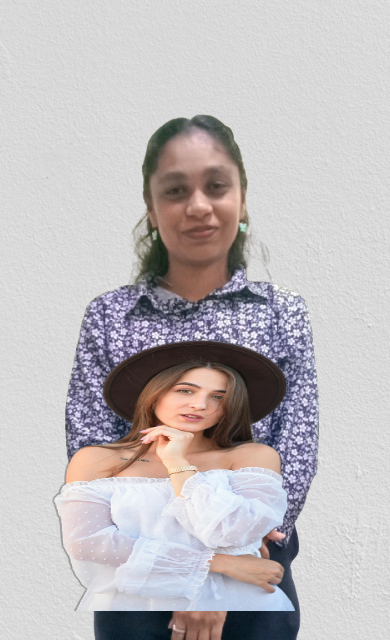
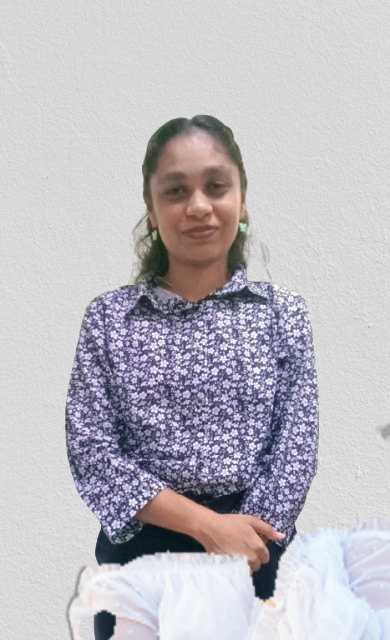
Changing Lookly adding API keys

Changed region(s): [[0.1231, 0.5312, 1.0, 1.0], [0.9538, 0.6562, 1.0, 0.6875]]

diff --git a/utils/ai_overlay.py b/utils/ai_overlay.py
@@ -12,67 +12,63 @@ from mediapipe.tasks.python import vision as mp_vision
 MODEL_PATH = os.path.join(os.path.dirname(__file__), 'pose_landmarker.task')
 
 # Landmark indices
-NOSE = 0
-LEFT_EYE = 2; RIGHT_EYE = 5
-LEFT_SHOULDER = 11; RIGHT_SHOULDER = 12
-LEFT_ELBOW = 13; RIGHT_ELBOW = 14
-LEFT_WRIST = 15; RIGHT_WRIST = 16
-LEFT_HIP = 23; RIGHT_HIP = 24
+LEFT_SHOULDER = 11;  RIGHT_SHOULDER = 12
+LEFT_HIP = 23;       RIGHT_HIP = 24
+
+# Global landmarker
+_landmarker = None
 
 def _get_landmarker():
-    base_options = mp_python.BaseOptions(model_asset_path=MODEL_PATH)
-    options = mp_vision.PoseLandmarkerOptions(
-        base_options=base_options,
-        running_mode=mp_vision.RunningMode.IMAGE
-    )
-    return mp_vision.PoseLandmarker.create_from_options(options)
+    global _landmarker
+    if _landmarker is None:
+        base_options = mp_python.BaseOptions(model_asset_path=MODEL_PATH)
+        options = mp_vision.PoseLandmarkerOptions(
+            base_options=base_options,
+            running_mode=mp_vision.RunningMode.IMAGE,
+            output_segmentation_masks=False
+        )
+        _landmarker = mp_vision.PoseLandmarker.create_from_options(options)
+    return _landmarker
 
-def _detect_landmarks(img_bgr):
-    rgb = cv2.cvtColor(img_bgr, cv2.COLOR_BGR2RGB)
-    mp_img = mp.Image(image_format=mp.ImageFormat.SRGB, data=rgb)
-    lm_er = _get_landmarker()
-    result = lm_er.detect(mp_img)
-    lm_er.close()
-    if result.pose_landmarks and len(result.pose_landmarks) > 0:
-        return result.pose_landmarks[0]
+def _detect_landmarks(img):
+    if len(img.shape) == 3 and img.shape[2] == 4:
+        img = img[:, :, :3]
+    rgb = cv2.cvtColor(img, cv2.COLOR_BGR2RGB)
+    rgb = np.ascontiguousarray(rgb)
+    landmarker = _get_landmarker()
+    try:
+        mp_img = mp.Image(image_format=mp.ImageFormat.SRGB, data=rgb)
+        result = landmarker.detect(mp_img)
+        if result.pose_landmarks:
+            return result.pose_landmarks[0]
+    except:
+        pass
     return None
 
 def _px(lm_pt, w, h):
     return (int(lm_pt.x * w), int(lm_pt.y * h))
 
-def _skin_mask(bgr):
-    hsv = cv2.cvtColor(bgr, cv2.COLOR_BGR2HSV)
+def _get_skin_mask(bgr):
     ycrcb = cv2.cvtColor(bgr, cv2.COLOR_BGR2YCrCb)
-    # Define skin color ranges
+    hsv = cv2.cvtColor(bgr, cv2.COLOR_BGR2HSV)
     mask1 = cv2.inRange(hsv, np.array([0, 20, 70]), np.array([25, 255, 255]))
     mask2 = cv2.inRange(ycrcb, np.array([0, 133, 77]), np.array([255, 173, 127]))
     return cv2.bitwise_and(mask1, mask2)
 
-def _extract_fabric(bgra, lm):
-    if lm is None: return bgra
+def _extract_garment_mask(bgra, landmarks):
     h, w = bgra.shape[:2]
     alpha = bgra[:, :, 3].copy()
+    if landmarks:
+        ls = _px(landmarks[LEFT_SHOULDER], w, h)
+        rs = _px(landmarks[RIGHT_SHOULDER], w, h)
+        shoulder_y = min(ls[1], rs[1])
+        alpha[:max(0, shoulder_y - 10), :] = 0
+        neck_center = ((ls[0] + rs[0]) // 2, shoulder_y)
+        neck_radius = int(abs(ls[0] - rs[0]) * 0.2)
+        cv2.circle(alpha, neck_center, neck_radius, 0, -1)
     
-    # 1. Anatomical Erasure (Head)
-    nose = _px(lm[NOSE], w, h)
-    ls = _px(lm[LEFT_SHOULDER], w, h)
-    rs = _px(lm[RIGHT_SHOULDER], w, h)
-    # Erase circle around face
-    head_radius = int(abs(ls[0]-rs[0]) * 0.4)
-    cv2.circle(alpha, nose, head_radius, 0, -1)
-    # Erase everything above shoulder level
-    shoulder_y = min(ls[1], rs[1])
-    alpha[:shoulder_y - 10, :] = 0
-
-    # 2. Skin Segmentation
-    skin = _skin_mask(bgra[:,:,:3])
+    skin = _get_skin_mask(bgra[:,:,:3])
     alpha[skin > 0] = 0
-    
-    # 3. Hand Erasure
-    for wrist in [LEFT_WRIST, RIGHT_WRIST]:
-        pt = _px(lm[wrist], w, h)
-        cv2.circle(alpha, pt, int(w*0.1), 0, -1)
-
     res = bgra.copy()
     res[:, :, 3] = alpha
     return res
@@ -81,42 +77,51 @@ def overlay_clothing(user_image_path, clothing_image_path, output_path):
     user_img = cv2.imread(user_image_path)
     if user_img is None: return False, "User image read fail"
     u_h, u_w = user_img.shape[:2]
-    u_lm = _detect_landmarks(user_img)
-    if u_lm is None: return False, "User pose not detected"
 
-    # Product
-    with open(clothing_image_path, 'rb') as f:
-        img_data = f.read()
-    removed = rembg_remove(img_data)
-    pil_img = Image.open(io.BytesIO(removed)).convert("RGBA")
-    c_bgra = cv2.cvtColor(np.array(pil_img), cv2.COLOR_RGBA2BGRA)
+    u_lm = _detect_landmarks(user_img)
+    if not u_lm: return False, "Err: Pose not detected"
+
+    try:
+        with open(clothing_image_path, 'rb') as f: img_data = f.read()
+        removed = rembg_remove(img_data)
+        pil_img = Image.open(io.BytesIO(removed)).convert("RGBA")
+        c_bgra = cv2.cvtColor(np.array(pil_img), cv2.COLOR_RGBA2BGRA)
+    except: return False, "Err: Clothing processing"
+
     c_h, c_w = c_bgra.shape[:2]
     c_lm = _detect_landmarks(c_bgra[:,:,:3])
-    
-    garment = _extract_fabric(c_bgra, c_lm)
+    if not c_lm: return False, "Err: Product pose not detected"
 
-    # Warp
-    if c_lm is None: return False, "Product pose not detected"
-    
+    garment = _extract_garment_mask(c_bgra, c_lm)
+
     def get_quad(lm, w, h):
-        ls = _px(lm[LEFT_SHOULDER], w, h); rs = _px(lm[RIGHT_SHOULDER], w, h)
-        lh = _px(lm[LEFT_HIP], w, h); rh = _px(lm[RIGHT_HIP], w, h)
-        # Expand slightly
-        dx = abs(rs[0]-ls[0]) * 0.2
-        dy = abs(lh[1]-ls[1]) * 0.1
-        return np.float32([[ls[0]-dx, ls[1]-dy], [rs[0]+dx, rs[1]-dy], [rh[0]+dx, rh[1]+dy], [lh[0]-dx, lh[1]+dy]])
+        return np.float32([
+            _px(lm[LEFT_SHOULDER], w, h), _px(lm[RIGHT_SHOULDER], w, h),
+            _px(lm[RIGHT_HIP], w, h), _px(lm[LEFT_HIP], w, h)
+        ])
+    
+    src_quad = get_quad(c_lm, c_w, c_h)
+    dst_quad = get_quad(u_lm, u_w, u_h)
 
-    src = get_quad(c_lm, c_w, c_h)
-    dst = get_quad(u_lm, u_w, u_h)
+    try:
+        M = cv2.getPerspectiveTransform(src_quad, dst_quad)
+        warped = cv2.warpPerspective(garment, M, (u_w, u_h), flags=cv2.INTER_LINEAR, borderMode=cv2.BORDER_CONSTANT, borderValue=(0,0,0,0))
+    except:
+        return False, "Err: Warping failed"
+
+    fg = warped[:, :, :3]
+    mask = warped[:, :, 3]
+
+    y_indices, x_indices = np.where(mask > 0)
+    if len(y_indices) == 0: return False, "Err: Out of bounds"
     
-    M = cv2.getPerspectiveTransform(src, dst)
-    warped = cv2.warpPerspective(garment, M, (u_w, u_h), flags=cv2.INTER_LINEAR, borderMode=cv2.BORDER_CONSTANT, borderValue=(0,0,0,0))
-    
-    # Blend
-    fg = warped[:,:,:3].astype(np.float32)
-    alpha = (warped[:,:,3] / 255.0).astype(np.float32)[:,:,np.newaxis]
-    bg = user_img.astype(np.float32)
-    
-    res = (fg * alpha + bg * (1-alpha)).astype(np.uint8)
+    center = (int((x_indices.min() + x_indices.max()) / 2), int((y_indices.min() + y_indices.max()) / 2))
+
+    try:
+        res = cv2.seamlessClone(fg, user_img, mask, center, cv2.NORMAL_CLONE)
+    except:
+        alpha = (mask / 255.0)[:, :, np.newaxis].astype(np.float32)
+        res = (fg.astype(np.float32) * alpha + user_img.astype(np.float32) * (1 - alpha)).astype(np.uint8)
+
     cv2.imwrite(output_path, res)
     return True, output_path

diff --git a/test_mp.py b/test_mp.py
@@ -1,0 +1,46 @@
+import cv2
+import mediapipe as mp
+import numpy as np
+import os
+from mediapipe.tasks import python as mp_python
+from mediapipe.tasks.python import vision as mp_vision
+
+# Use absolute path for safety
+MODEL_PATH = r"c:\Users\SHASIHINI MALSHA\Development\lomiees\utils\pose_landmarker.task"
+IMAGE_PATH = r"c:\Users\SHASIHINI MALSHA\Development\lomiees\static\uploads\test_person.jpg"
+
+def test_segmentation():
+    print("Initializing landmarker with segmentation...")
+    base_options = mp_python.BaseOptions(model_asset_path=MODEL_PATH)
+    options = mp_vision.PoseLandmarkerOptions(
+        base_options=base_options,
+        running_mode=mp_vision.RunningMode.IMAGE,
+        output_segmentation_masks=True
+    )
+    landmarker = mp_vision.PoseLandmarker.create_from_options(options)
+    
+    print(f"Loading image: {IMAGE_PATH}")
+    img_bgr = cv2.imread(IMAGE_PATH)
+    if img_bgr is None:
+        print("Failed to load image.")
+        return
+    
+    rgb = cv2.cvtColor(img_bgr, cv2.COLOR_BGR2RGB)
+    mp_img = mp.Image(image_format=mp.ImageFormat.SRGB, data=rgb)
+    
+    print("Running detection...")
+    result = landmarker.detect(mp_img)
+    print("Detection finished.")
+    
+    if result.segmentation_masks:
+        print(f"Successfully got {len(result.segmentation_masks)} segmentation masks.")
+    else:
+        print("No segmentation masks found.")
+        
+    landmarker.close()
+
+if __name__ == "__main__":
+    try:
+        test_segmentation()
+    except Exception as e:
+        print(f"Error during test: {e}")
